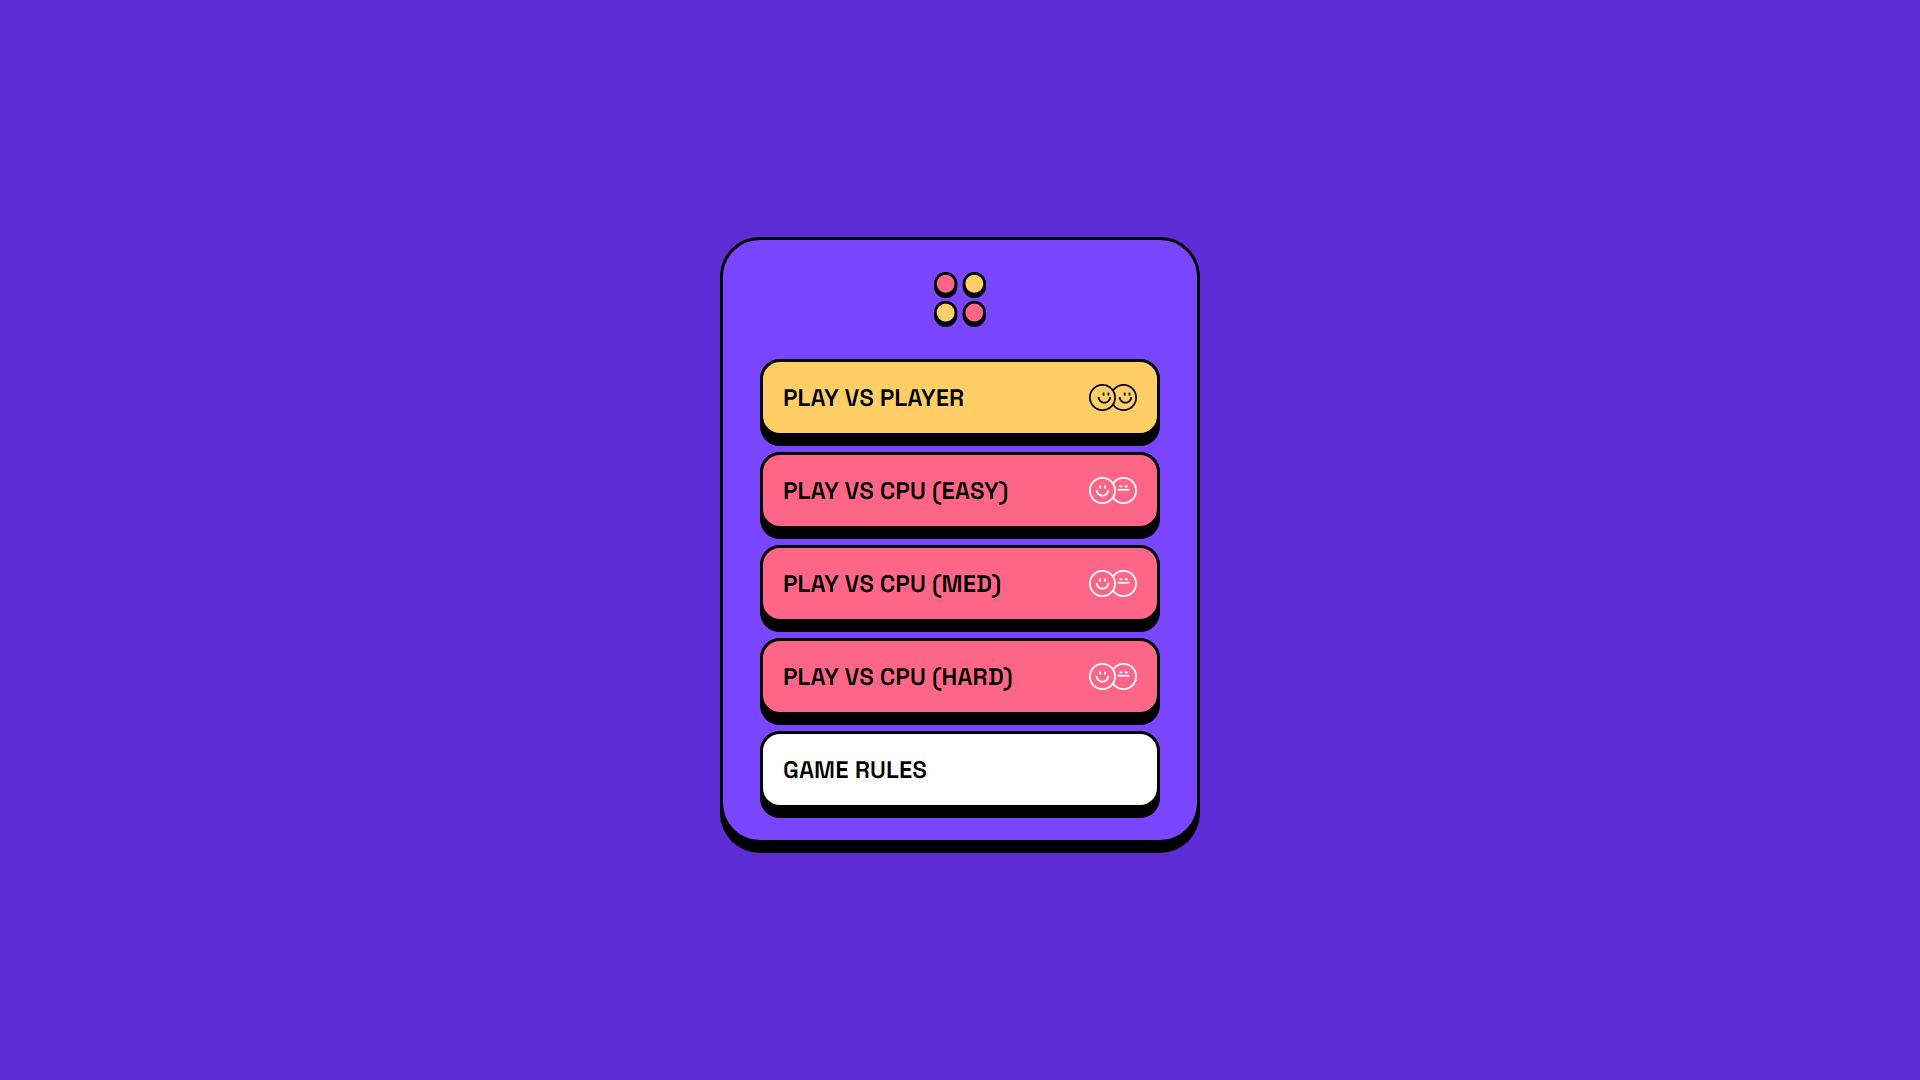
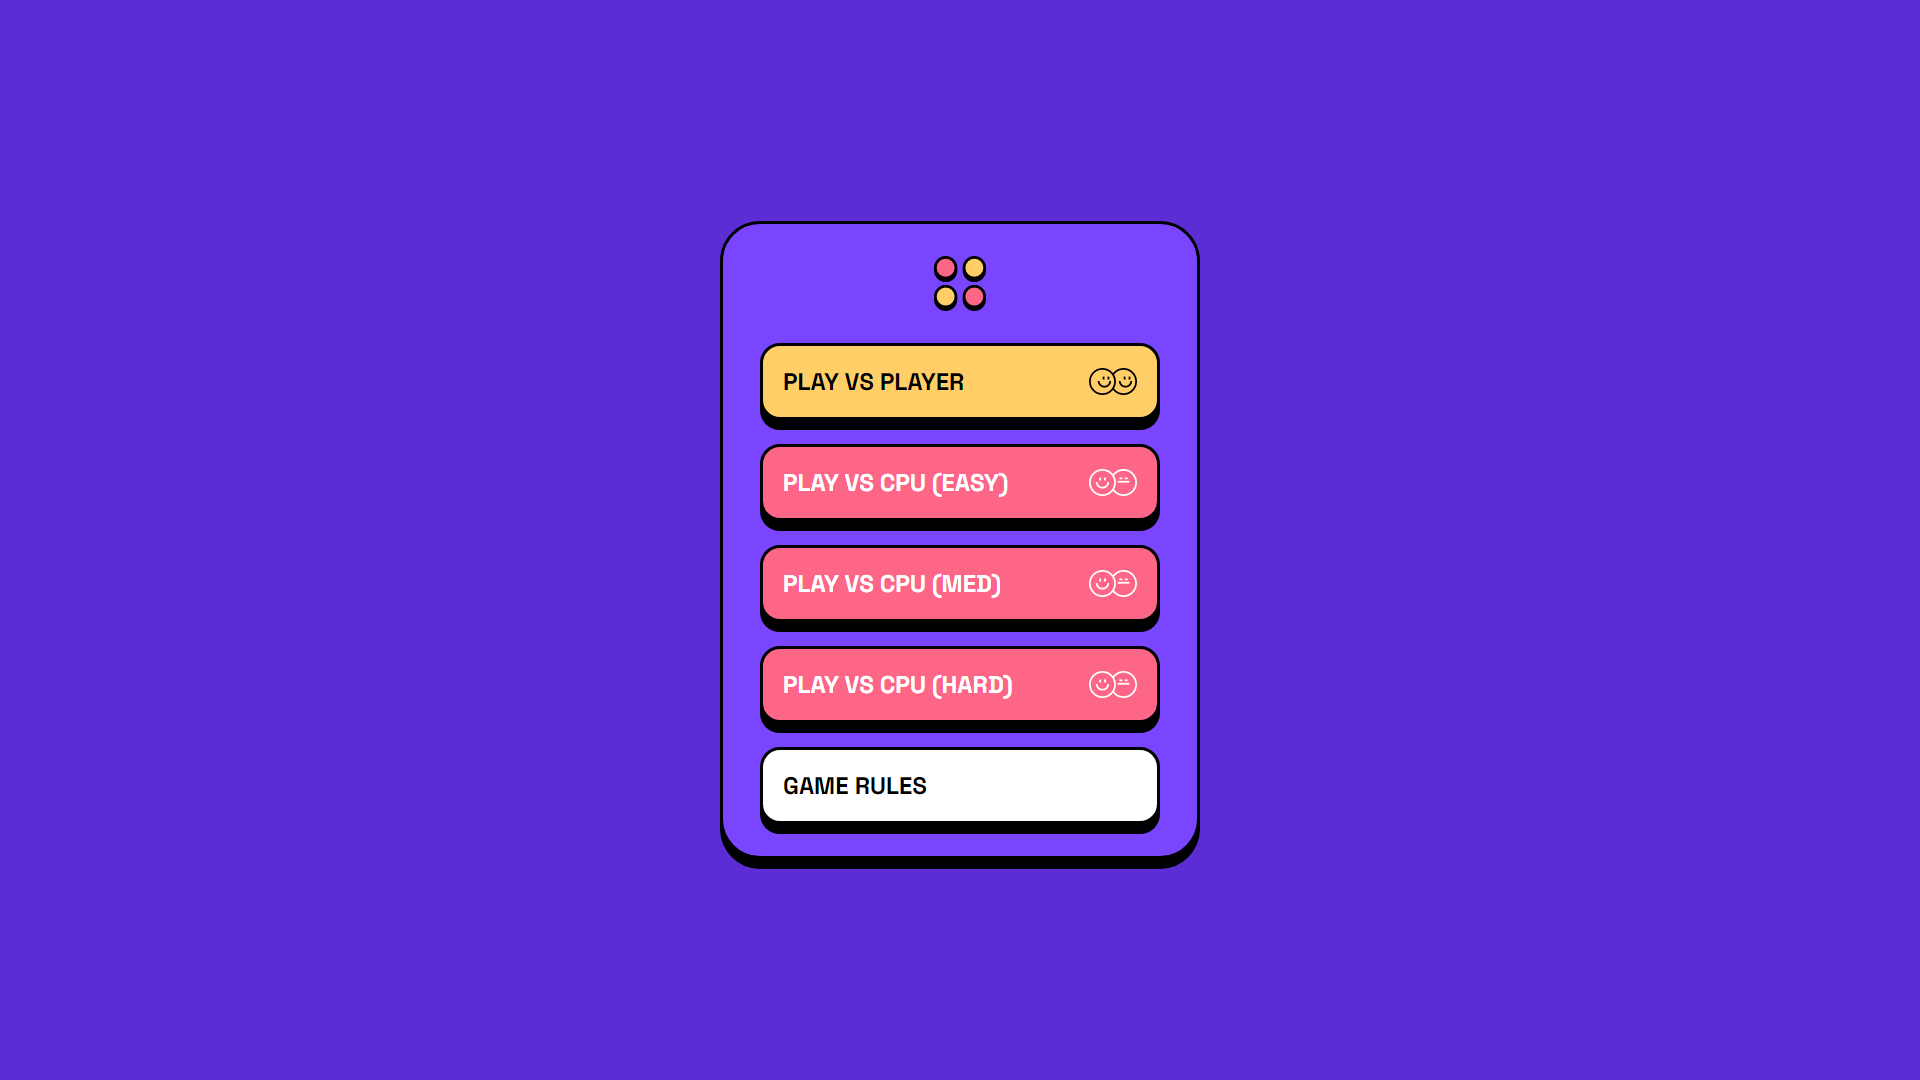
Minor Edit

Changed region(s): [[0.375, 0.1833, 0.625, 0.55], [0.375, 0.5806, 0.625, 0.825]]

diff --git a/src/components/MainMenu/index.tsx b/src/components/MainMenu/index.tsx
@@ -12,12 +12,12 @@ const MainMenu = () => {
       sm:bg-cLight sm:p-[2rem] sm:shadow-custom"
     >
       <Image src="images/logo.svg" alt="logo" width={52} height={52} />
-      <div className="relative flex h-full w-full flex-col items-center gap-[1rem]">
+      <div className="relative flex h-full w-full flex-col items-center gap-[1.5rem]">
         <Link
           onClick={() => start(0)}
           href="/ingame"
-          className="flex w-full max-w-[25rem] items-center justify-between rounded-[1.25rem]
-            border-[3px] border-black bg-cYellow p-[1.25rem] text-left text-md font-bold shadow-custom
+          className="flex w-full max-w-[25rem] items-center justify-between rounded-[1.25rem] border-[3px]
+            border-black bg-cYellow p-[1.25rem] text-left text-md font-bold shadow-custom
             transition-all active:shadow-customActive"
         >
           PLAY VS PLAYER
@@ -32,8 +32,8 @@ const MainMenu = () => {
           onClick={() => start(1)}
           href="/ingame"
           className="flex w-full max-w-[25rem] items-center justify-between rounded-[1.25rem]
-            border-[3px] border-black bg-cRed p-[1.25rem] text-left text-md font-bold shadow-custom
-            transition-all active:shadow-customActive"
+            border-[3px] border-black bg-cRed p-[1.25rem] text-left text-md font-bold text-white
+            shadow-custom transition-all active:shadow-customActive"
         >
           PLAY VS CPU (EASY)
           <Image
@@ -47,8 +47,8 @@ const MainMenu = () => {
           onClick={() => start(2)}
           href="/ingame"
           className="flex w-full max-w-[25rem] items-center justify-between rounded-[1.25rem]
-            border-[3px] border-black bg-cRed p-[1.25rem] text-left text-md font-bold shadow-custom
-            transition-all active:shadow-customActive"
+            border-[3px] border-black bg-cRed p-[1.25rem] text-left text-md font-bold text-white
+            shadow-custom transition-all active:shadow-customActive"
         >
           PLAY VS CPU (MED)
           <Image
@@ -62,8 +62,8 @@ const MainMenu = () => {
           onClick={() => start(3)}
           href="/ingame"
           className="flex w-full max-w-[25rem] items-center justify-between rounded-[1.25rem]
-            border-[3px] border-black bg-cRed p-[1.25rem] text-left text-md font-bold shadow-custom
-            transition-all active:shadow-customActive"
+            border-[3px] border-black bg-cRed p-[1.25rem] text-left text-md font-bold text-white
+            shadow-custom transition-all active:shadow-customActive"
         >
           PLAY VS CPU (HARD)
           <Image

diff --git a/src/components/Ingame/Modal.tsx b/src/components/Ingame/Modal.tsx
@@ -18,7 +18,7 @@ const Modal = () => {
       px-[1.25rem] py-[1.875rem] shadow-custom sm:px-[2.5rem] sm:py-[3.125rem]"
       >
         <h1 className="text-lg font-bold text-white">PAUSE</h1>
-        <div className="relative flex h-full w-full flex-col items-center gap-[1.875rem]">
+        <div className="relative flex h-full w-full flex-col items-center gap-[1.5rem]">
           <button
             onClick={togglePause}
             className="w-full max-w-[25rem] items-center justify-between rounded-[1.25rem]
@@ -39,8 +39,8 @@ const Modal = () => {
             RESTART
           </button>
           <Link
-            className="w-full max-w-[25rem] rounded-[1.25rem]
-           border-[3px] border-black bg-cRed p-[1.25rem] text-center text-md font-bold shadow-custom
+            className="w-full max-w-[25rem] rounded-[1.25rem] border-[3px]
+           border-black bg-cRed p-[1.25rem] text-center text-md font-bold text-white shadow-custom
            transition-all active:shadow-customActive"
             href="/"
           >
